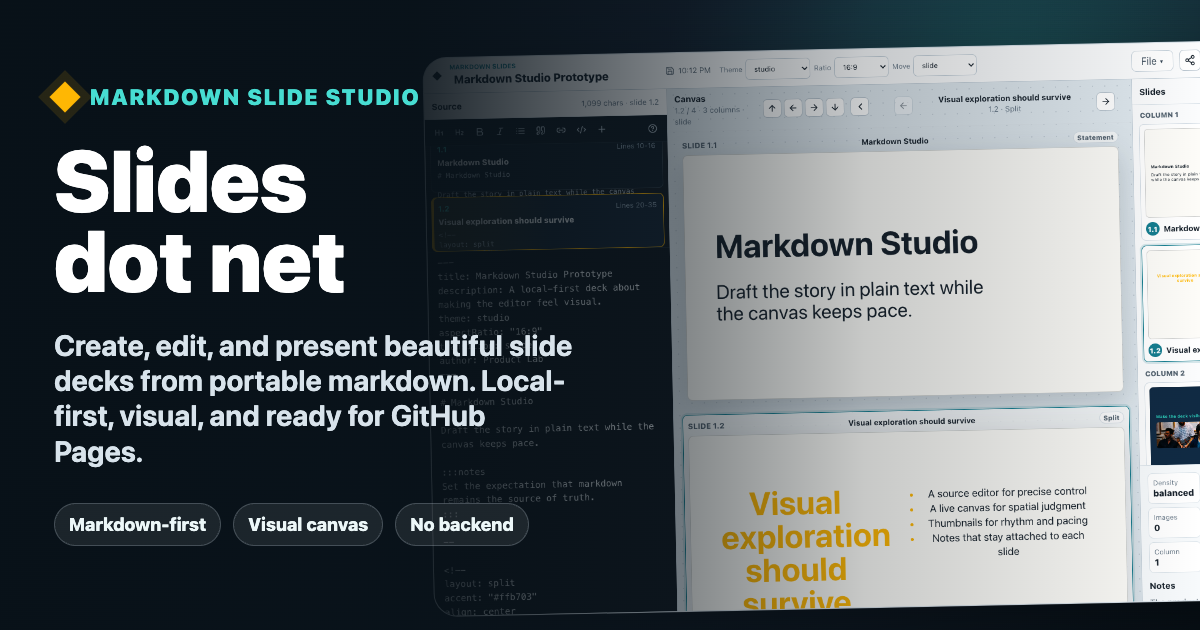
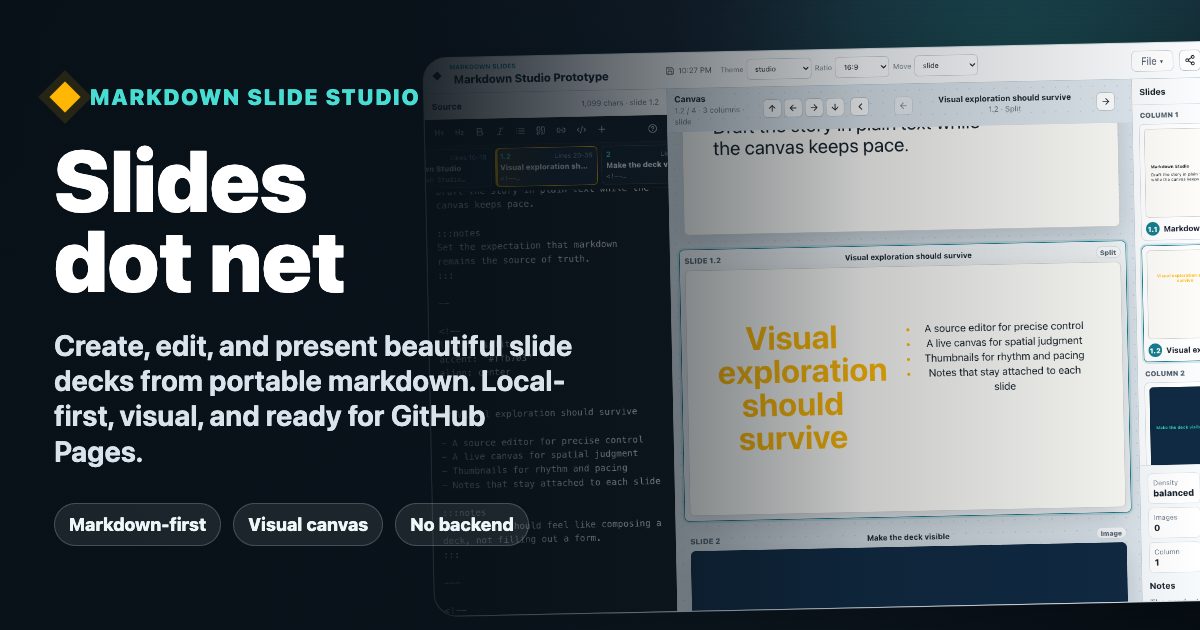
Tighten slide lineup and source navigation
Replace the bulky vertical source definition cards with a compact horizontal filmstrip so the markdown editor remains visible while still showing individual slide cells.

Add a sequence outline mode for broad mostly-horizontal decks, avoiding noisy one-slide column headings and presenting long decks as a dense selectable slide list.

Make selection snapping immediate and centered across the canvas, source filmstrip, outline, and textarea so the active markdown definition lines up with the rendered slide without stale scroll positions.

Extend Playwright coverage for compact source-cell height, long horizontal deck sequence rendering, and source-cell-to-canvas snapping; refresh the screenshot-based Open Graph image after the UI polish.

diff --git a/tests/e2e/markdown-slide-studio.spec.ts b/tests/e2e/markdown-slide-studio.spec.ts
@@ -20,6 +20,41 @@ The canvas should update as soon as the source changes.
 - The slide can be presented
 `;
 
+const horizontalDeck = `---
+title: Long Horizontal Deck
+---
+
+# One
+
+---
+
+# Two
+
+---
+
+# Three
+
+---
+
+# Four
+
+---
+
+# Five
+
+---
+
+# Six
+
+---
+
+# Seven
+
+---
+
+# Eight
+`;
+
 test.beforeEach(async ({ page }) => {
   await page.goto("/");
   await page.evaluate(({ storageKey, version }) => {
@@ -133,6 +168,13 @@ test("syncs markdown cursor, source cells, and rendered slides", async ({
   await source.fill(customDeck);
 
   await expect(page.getByTestId("source-cell-strip")).toBeVisible();
+  await expect
+    .poll(() =>
+      page
+        .getByTestId("source-cell-strip")
+        .evaluate((element) => element.getBoundingClientRect().height),
+    )
+    .toBeLessThan(90);
   await expect(page.getByTestId("source-cell-1")).toContainText(
     "Second Moment",
   );
@@ -174,6 +216,32 @@ test("syncs markdown cursor, source cells, and rendered slides", async ({
       source.evaluate((element) => (element as HTMLTextAreaElement).selectionStart),
     )
     .toBe(customDeck.indexOf("# First Moment"));
+});
+
+test("keeps long horizontal decks in a compact slide sequence", async ({
+  page,
+}) => {
+  await page.getByTestId("markdown-source").fill(horizontalDeck);
+
+  await expect(page.getByTestId("slide-sequence-list")).toBeVisible();
+  await expect(page.getByText("8 slide sequence")).toBeVisible();
+  await expect(page.getByText("Column 8")).toBeHidden();
+
+  await page.getByTestId("source-cell-1").click();
+  await expect(page.locator('[data-flow-slide="1"]')).toHaveClass(/active/);
+  await expect(
+    page.locator('[data-flow-slide="1"]').getByRole("heading", {
+      name: "Two",
+    }),
+  ).toBeInViewport();
+
+  await page
+    .getByTestId("slide-sequence-list")
+    .getByRole("button", { name: /^Select Seven$/ })
+    .click();
+
+  await expect(page.locator('[data-flow-slide="6"]')).toHaveClass(/active/);
+  await expect(page.locator('[data-outline-slide="6"]')).toHaveClass(/active/);
 });
 
 test("edits deck metadata and formats markdown through toolbar controls", async ({

diff --git a/src/ui/App.tsx b/src/ui/App.tsx
@@ -107,6 +107,12 @@ export function App() {
   const parseResult = useMemo(() => parseMarkdownDeck(markdown), [markdown]);
   const deck = parseResult.ok ? parseResult.deck : undefined;
   const activeSlide = deck?.slides[selectedSlideIndex] ?? deck?.slides[0];
+  const shouldUseSlideSequenceOutline = deck
+    ? deck.columns.length > 6 &&
+      deck.columns.filter((column) => column.length === 1).length /
+        deck.columns.length >=
+        0.75
+    : false;
 
   useEffect(() => {
     const nextDraft = saveDeckDraft(markdown);
@@ -149,7 +155,17 @@ export function App() {
 
     document
       .querySelector(`[data-flow-slide="${selectedSlideIndex}"]`)
-      ?.scrollIntoView({ block: "nearest", behavior: "smooth" });
+      ?.scrollIntoView({ block: "center", behavior: "auto" });
+    document
+      .querySelector(`[data-source-cell="${selectedSlideIndex}"]`)
+      ?.scrollIntoView({
+        block: "nearest",
+        inline: "center",
+        behavior: "auto",
+      });
+    document
+      .querySelector(`[data-outline-slide="${selectedSlideIndex}"]`)
+      ?.scrollIntoView({ block: "center", behavior: "auto" });
   }, [isPresenting, selectedSlideIndex]);
 
   useEffect(() => {
@@ -339,7 +355,7 @@ export function App() {
       (slide.sourceRange.lineStart - 1) * lineHeight - textarea.clientHeight * 0.18,
     );
 
-    textarea.scrollTo({ behavior: "smooth", top: nextScrollTop });
+    textarea.scrollTo({ behavior: "auto", top: nextScrollTop });
   }
 
   function updateDeckMetadata(
@@ -954,6 +970,7 @@ export function App() {
                       ? "source-cell active"
                       : "source-cell"
                   }
+                  data-source-cell={slide.index}
                   data-testid={`source-cell-${slide.index}`}
                   key={slide.id}
                   type="button"
@@ -1168,12 +1185,46 @@ export function App() {
             <h2 id="outline-title">Slides</h2>
             <span>
               {deck
-                ? `${deck.columns.length} columns · ${deck.slides.length} total`
+                ? shouldUseSlideSequenceOutline
+                  ? `${deck.slides.length} slide sequence`
+                  : `${deck.columns.length} columns · ${deck.slides.length} total`
                 : "studio"}
             </span>
           </div>
 
-          {deck ? (
+          {deck && shouldUseSlideSequenceOutline ? (
+            <div
+              className="thumbnail-list slide-sequence-list"
+              data-testid="slide-sequence-list"
+            >
+              {deck.slides.map((slide) => (
+                <button
+                  className={
+                    slide.index === selectedSlideIndex
+                      ? "thumbnail-button sequence-thumbnail active"
+                      : "thumbnail-button sequence-thumbnail"
+                  }
+                  data-outline-slide={slide.index}
+                  type="button"
+                  key={slide.id}
+                  aria-label={`Select ${slide.title}`}
+                  onClick={() => selectSlide(slide.index)}
+                >
+                  <SlideRenderer
+                    aspectRatio={deck.metadata.aspectRatio}
+                    isThumbnail
+                    slide={slide}
+                    theme={deck.metadata.theme}
+                  />
+                  <span className="thumbnail-meta">
+                    <span>{slide.positionLabel}</span>
+                    <strong>{slide.title}</strong>
+                    <em>{slide.layout}</em>
+                  </span>
+                </button>
+              ))}
+            </div>
+          ) : deck ? (
             <div className="thumbnail-list">
               {deck.columns.map((column, columnIndex) => (
                 <section className="thumbnail-column" key={columnIndex}>
@@ -1188,6 +1239,7 @@ export function App() {
                           ? "thumbnail-button active"
                           : "thumbnail-button"
                       }
+                      data-outline-slide={slide.index}
                       type="button"
                       key={slide.id}
                       aria-label={`Select ${slide.title}`}

diff --git a/src/styles.css b/src/styles.css
@@ -470,25 +470,28 @@ select {
 
 .source-cell-strip {
   flex: 0 0 auto;
-  display: grid;
-  gap: 8px;
-  max-height: 172px;
-  overflow: auto;
-  padding: 8px;
+  display: flex;
+  gap: 6px;
+  overflow-x: auto;
+  overflow-y: hidden;
+  padding: 5px 8px 6px;
   border-bottom: 1px solid #1d2a34;
   background:
     linear-gradient(rgba(255, 255, 255, 0.035), rgba(255, 255, 255, 0)),
     #101820;
+  scrollbar-width: thin;
 }
 
 .source-cell {
-  width: 100%;
-  min-height: 88px;
+  flex: 0 0 166px;
+  width: 166px;
+  min-height: 56px;
   display: grid;
-  gap: 6px;
-  padding: 10px;
+  grid-template-rows: auto auto 1fr;
+  gap: 4px;
+  padding: 6px 7px;
   border: 1px solid rgba(184, 198, 209, 0.18);
-  border-radius: 8px;
+  border-radius: 7px;
   color: #dbe6ee;
   background: #131f2a;
   cursor: pointer;
@@ -514,12 +517,12 @@ select {
   justify-content: space-between;
   gap: 8px;
   color: #8da0b0;
-  font-size: 0.72rem;
+  font-size: 0.66rem;
 }
 
 .source-cell-meta strong {
   color: #46d9cf;
-  font-size: 0.78rem;
+  font-size: 0.74rem;
 }
 
 .source-cell-meta em {
@@ -529,7 +532,7 @@ select {
 .source-cell-title {
   overflow: hidden;
   color: #f7fafc;
-  font-size: 0.82rem;
+  font-size: 0.76rem;
   font-weight: 800;
   text-overflow: ellipsis;
   white-space: nowrap;
@@ -541,11 +544,11 @@ select {
   color: #b8c6d1;
   font-family:
     "SFMono-Regular", Consolas, "Liberation Mono", Menlo, monospace;
-  font-size: 0.72rem;
-  line-height: 1.35;
+  font-size: 0.66rem;
+  line-height: 1.2;
   white-space: pre-wrap;
   -webkit-box-orient: vertical;
-  -webkit-line-clamp: 4;
+  -webkit-line-clamp: 1;
 }
 
 textarea {
@@ -826,6 +829,10 @@ textarea {
   padding: 10px;
 }
 
+.slide-sequence-list {
+  gap: 8px;
+}
+
 .thumbnail-column {
   display: grid;
   gap: 8px;
@@ -862,6 +869,13 @@ textarea {
   background: #ffffff;
   text-align: left;
   cursor: pointer;
+}
+
+.sequence-thumbnail {
+  grid-template-columns: 94px minmax(0, 1fr);
+  align-items: center;
+  gap: 8px;
+  padding: 6px;
 }
 
 .thumbnail-button.active {
@@ -901,6 +915,10 @@ textarea {
   width: 100%;
   border-radius: 6px;
   box-shadow: none;
+}
+
+.sequence-thumbnail .slide-thumbnail-frame {
+  min-width: 0;
 }
 
 .slide-thumbnail-frame .slide-content {